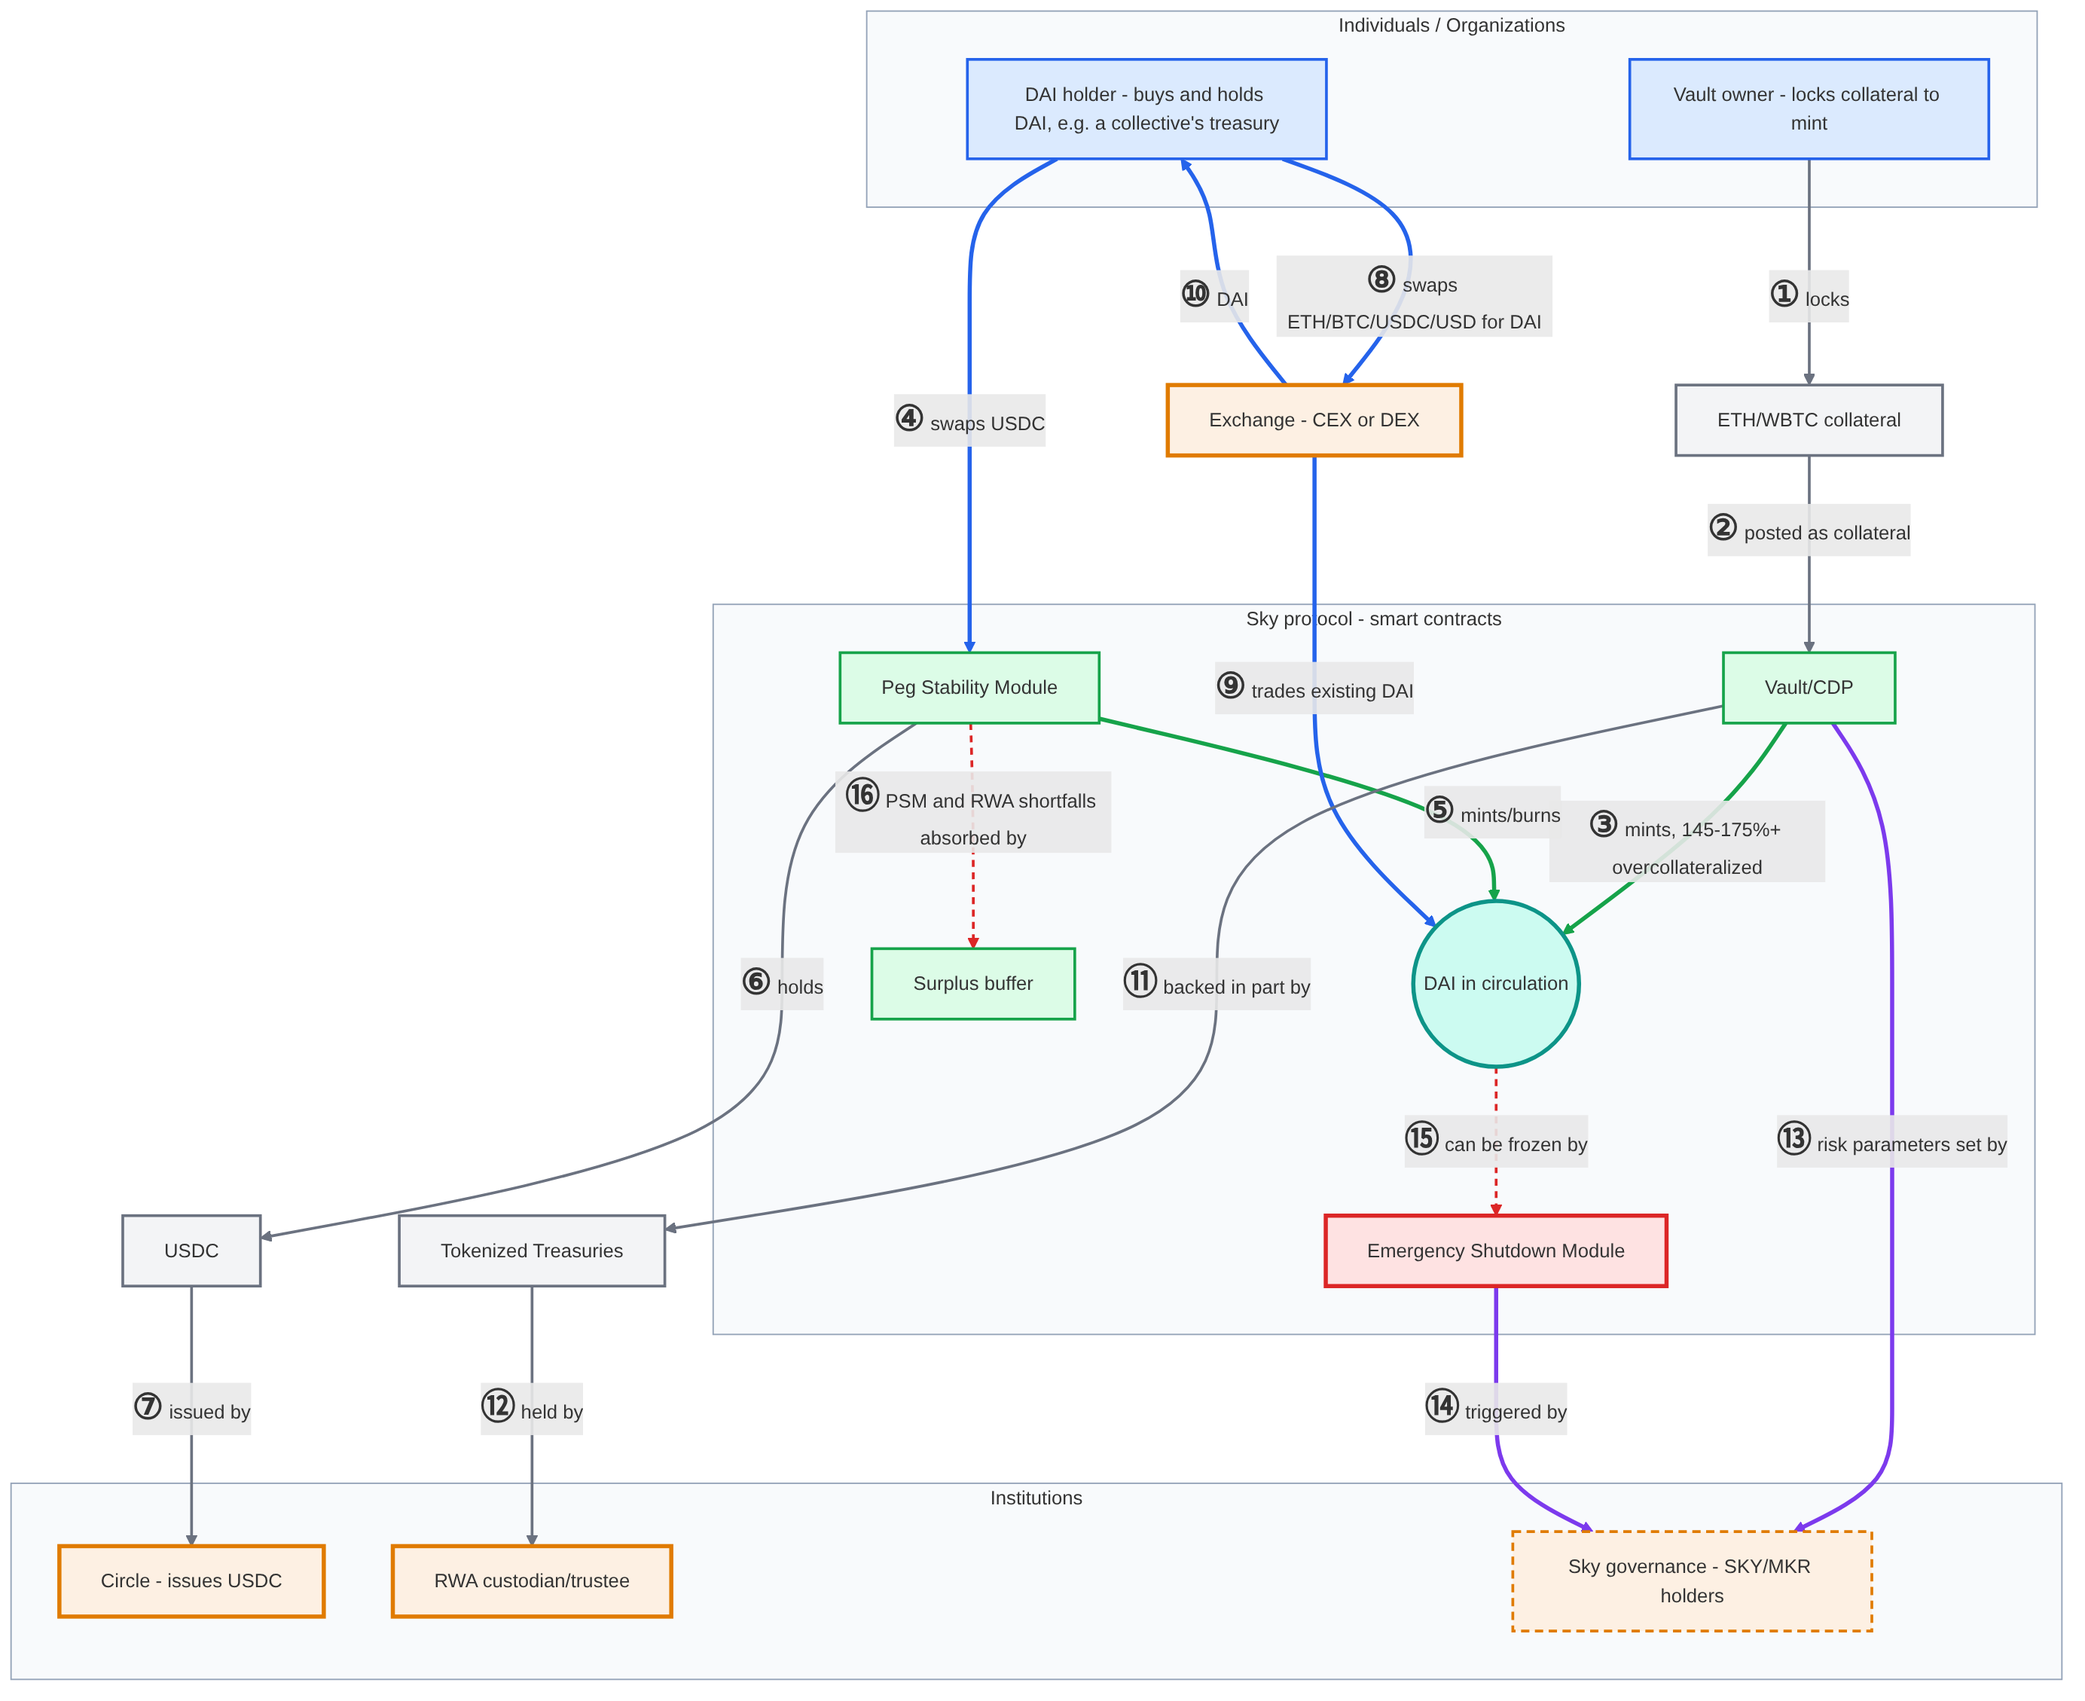
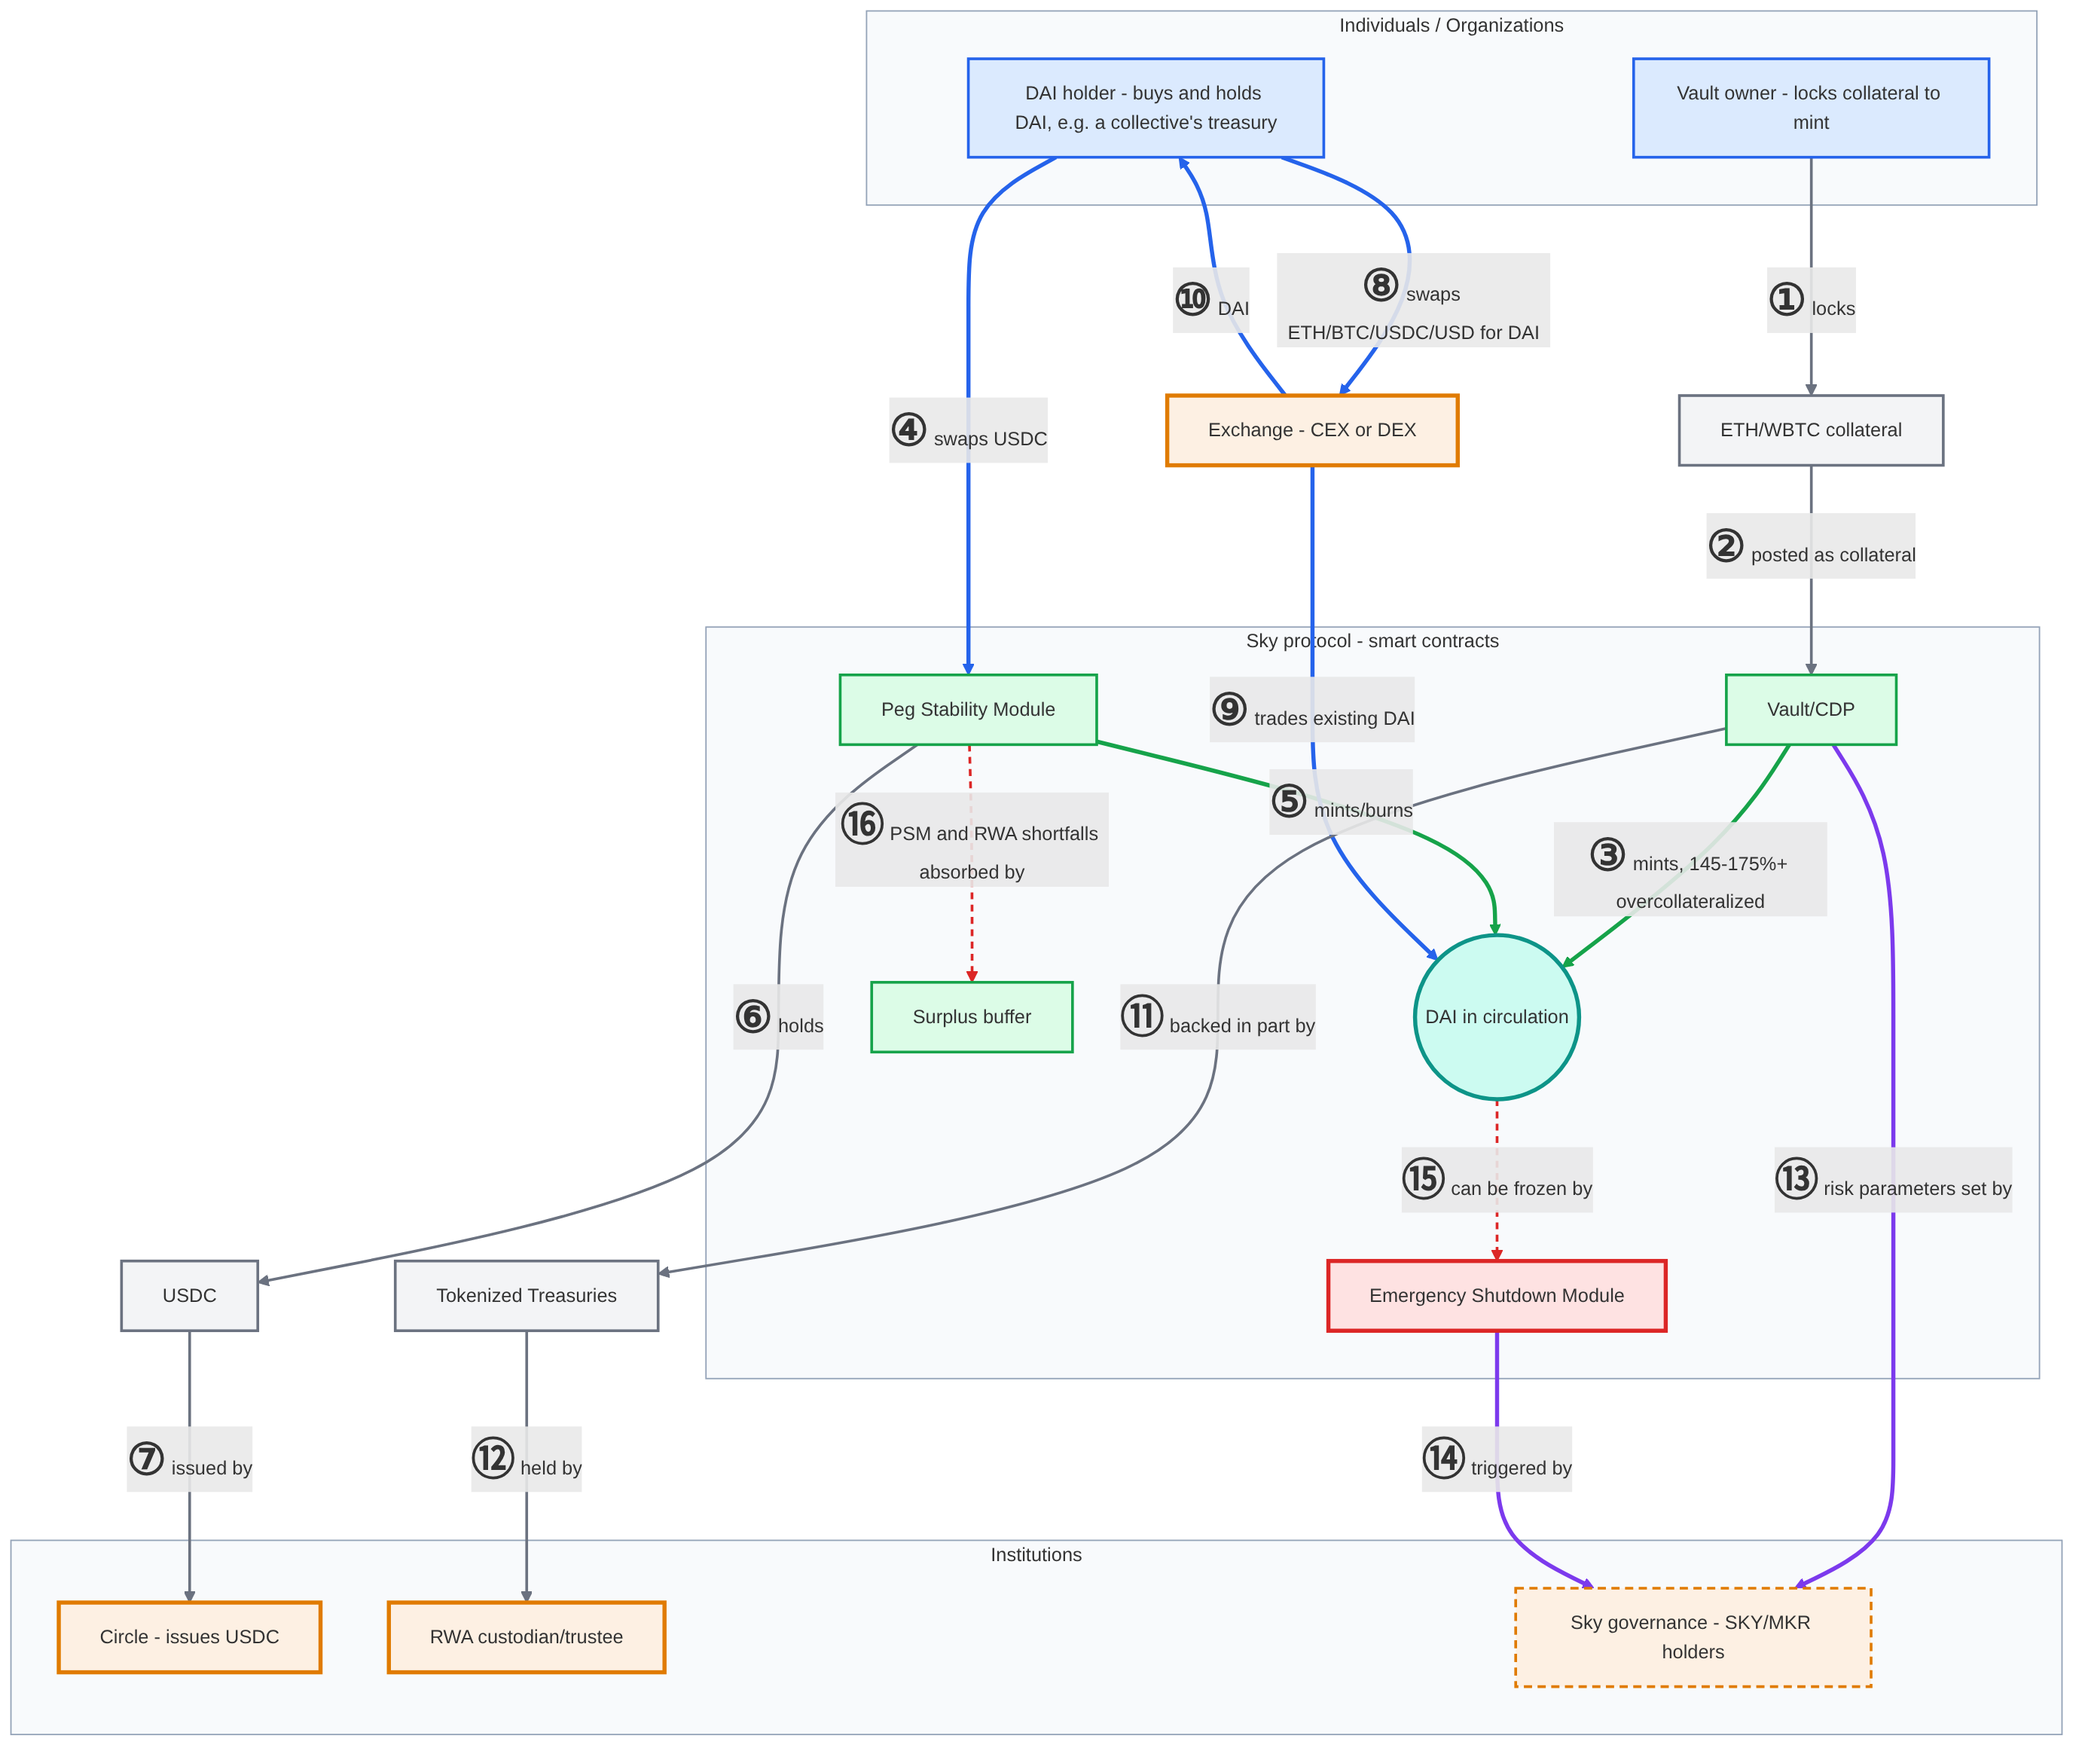
docs: bump circled flow numbers in diagrams to 2.3em

diff --git a/blog-author-style-guide.md b/blog-author-style-guide.md
@@ -82,7 +82,7 @@ go where they belong and nowhere else.
   [`governance/diagrams/render-diagrams.mjs`](governance/diagrams/render-diagrams.mjs).
   Small diagrams (like the ESOP flow) stay as inline Mermaid blocks. In the large
   diagrams' edge labels, wrap each circled digit as
-  `<b style='font-size:1.8em'>①</b>` so the numbers stay readable at page width; this only
+  `<b style='font-size:2.3em'>①</b>` so the numbers stay readable at page width; this only
   works because the diagram is a rendered image, not native Mermaid on GitHub.
 - Chris marks instructions for the assistant inline as `[[ request ]]`. Act on them and
   remove the marker once done.
